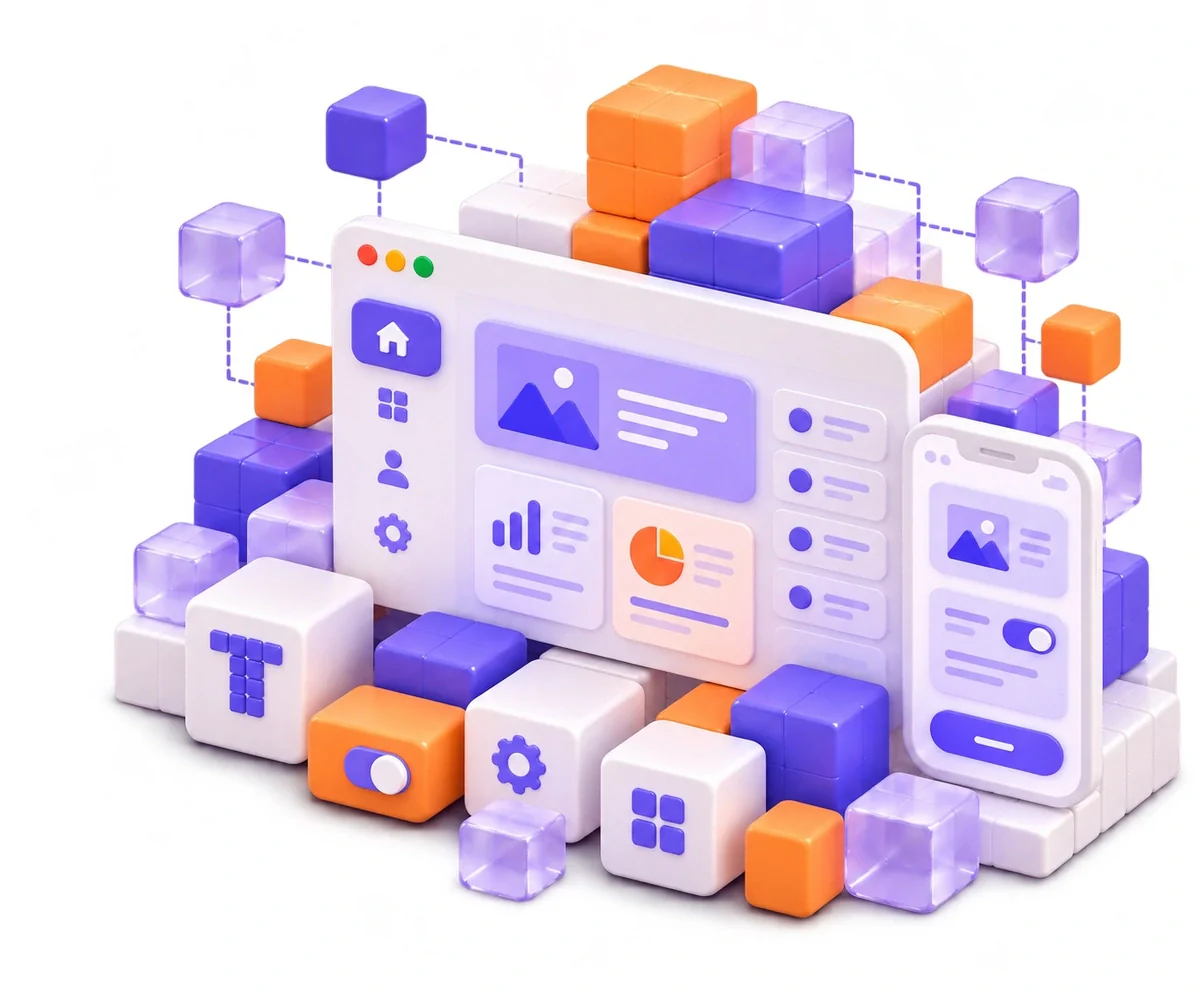
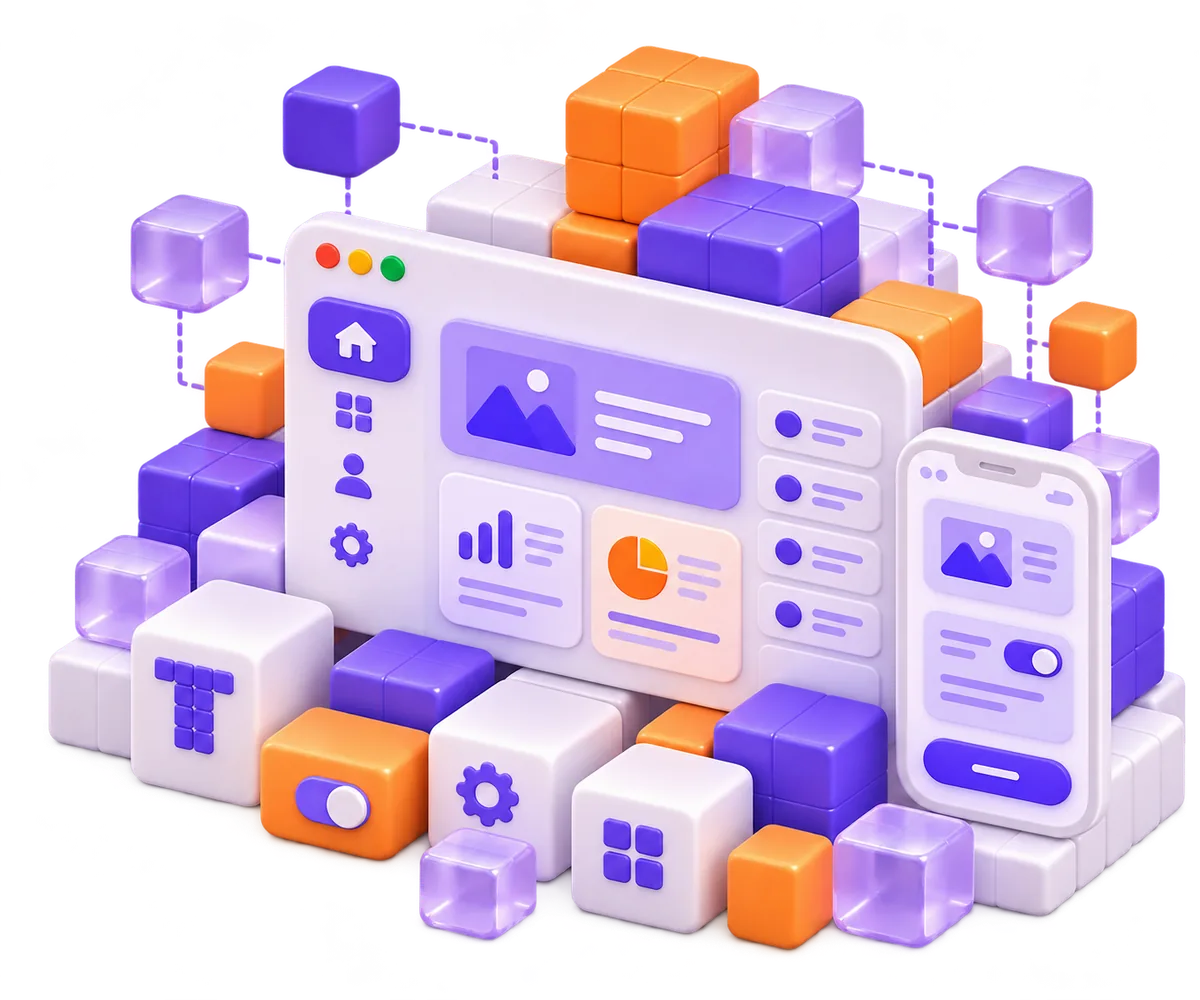
feat(website): transparent landing hero and frameless illustrations
Replace home-hero.webp with the transparent-background render (1200x1000,
WebP q82, lossless alpha) and drop the border, ground and dark-theme glow
from every illustration: the art sits bare on the page in both themes.
Only the texel fallback keeps its frame.

The hero's alpha channel raises the landing's measured page weight from
435.5 to 491.4 KB gzip; the / budget moves from 453 to 512 (+4%).

diff --git a/apps/website/src/components/perf/budgets.ts b/apps/website/src/components/perf/budgets.ts
@@ -60,8 +60,8 @@ export const ROUTE_BUDGET_OVERRIDES: readonly RouteBudgetOverride[] = Object.fre
   {
     route: '/',
     reason:
-      'The unified landing (PLAN_006 T-44) ships zero islands; its module scripts wire the install copy command and the ready signal. The generous page and JS limits below are the old hero-widget floors, kept until T-93 right-sizes them. PLAN_012 illustrations (2026-11-01): the page now shows its generated WebP plates (the eager hero and the lazy plates within the browser’s load-ahead distance load on open, each at the srcset width it renders), 362.9 KB of WebP on open; measured 435.5 KB page, limit 453 (+4% headroom).',
-    budget: { pageGzipKb: 453, jsGzipKb: 116, lcpMs: 3000 },
+      'The unified landing (PLAN_006 T-44) ships zero islands; its module scripts wire the install copy command and the ready signal. The generous page and JS limits below are the old hero-widget floors, kept until T-93 right-sizes them. PLAN_012 illustrations (2026-11-01): the page now shows its generated WebP plates (the eager hero and the lazy plates within the browser’s load-ahead distance load on open, each at the srcset width it renders), 362.9 KB of WebP on open; measured 435.5 KB page, limit 453 (+4% headroom). The transparent hero (2026-11-01) carries an alpha channel and weighs more: measured 491.4 KB page, limit 512 (+4% headroom).',
+    budget: { pageGzipKb: 512, jsGzipKb: 116, lcpMs: 3000 },
   },
   {
     route: '/component-pages/button/',

diff --git a/apps/website/tests/illustrations.test.ts b/apps/website/tests/illustrations.test.ts
@@ -106,12 +106,18 @@ describe('SiteIllustration', () => {
     expect(source).toContain("fetchpriority={eager ? 'high' : undefined}");
   });
 
-  it('swaps to the dark file only under the dark theme, and frames plates otherwise', () => {
+  it('swaps to the dark file only under the dark theme, and frames only the fallback', () => {
     expect(source).toContain(
       ":global(:root[data-tx-mode='dark']) .site-illustration--has-dark .site-illustration__dark"
     );
     expect(source).toMatch(/\.site-illustration__dark \{\s+display: none !important;/);
-    expect(source).toContain(":global(:root[data-tx-mode='dark']) .site-illustration--plate");
+    // Transparent art sits bare on the page: no border, ground or shadow.
+    expect(source).toMatch(/\.site-illustration \{(?:(?!\})[\s\S])*\}/);
+    expect(source.match(/\.site-illustration \{(?:(?!\})[\s\S])*\}/)?.[0]).not.toMatch(
+      /border|background|box-shadow/
+    );
+    expect(source).toMatch(/\.site-illustration--fallback \{[^}]*border: 1px solid/);
+    expect(source).not.toContain('box-shadow');
   });
 
   it('offers smaller build-time widths with a sizes hint, ending at the full file', () => {

diff --git a/apps/website/docs/ILLUSTRATIONS.md b/apps/website/docs/ILLUSTRATIONS.md
@@ -31,16 +31,14 @@ This guide fixes that style, the slot sizes and how a finished file reaches the 
 1. **No text.** No letters, words, numbers, logos or watermarks anywhere in an image. The page's HTML carries every word, so statements stay readable, translatable and indexable. The one exception is the Texuli "T" isotype (a T built from square cells), allowed only as an embossed glyph on a single cube where the prompt says so.
 2. **One idea per image.** Each image shows texel cubes plus one or two interface objects that tell the slot's single idea.
 3. **No people, no robots, no photographs.** No dark or busy backgrounds, and no extra brand colours.
-4. **Safe area.** Keep important content inside the central 84% of the frame. Leave 8% margins on every side, because crops and rounded frames clip the edges.
+4. **Safe area.** Keep important content inside the central 84% of the frame. Leave 8% margins on every side, because crops clip the edges.
 5. **Same light, same camera, same palette** in every image, so the set reads as one family.
 
 ## Light and dark
 
-Each image is rendered on the light lavender-to-peach ground. On the light theme it sits flush, with no frame on `plate` variants. On the dark theme the same file sits in a rounded frame with a soft violet glow, so it reads as a lit product shot rather than a light patch on a dark page.
+Every file has a transparent background, so it sits bare on the page ground in both themes: no border, no ground and no shadow. A file must therefore read on both a light and a dark ground. Only the texel fallback, shown when a file is missing, keeps a rounded frame. A replacement keeps the slot's file name and size, and the build derives its smaller widths, so it needs no code change.
 
-The files in the site today (added 2026-11-01) were generated with a transparent background instead of the gradient, so they sit on the page ground in both themes; the dark frame then only outlines them. `home-hero.webp` is the exception: it arrived without transparency, on a white ground, so it still shows as a white plate. Regenerating it with a transparent background replaces it with no code change.
-
-A slot may also name an optional `fileDark` (the same scene on a deep violet-ink ground, about `#17142A` to `#221B3D`). When that file exists, the dark theme uses it instead of the frame. Dark variants are optional: the frame keeps every page correct without them.
+A slot may also name an optional `fileDark` (the same scene on a deep violet-ink ground, about `#17142A` to `#221B3D`). When that file exists, the dark theme uses it instead of the light file. Dark variants are optional.
 
 ## Slots and sizes
 
@@ -74,7 +72,7 @@ Export WebP at quality 82 or better, at the exact pixel size above, below 250 KB
 1. Generate the image from its prompt in [illustration-prompts.md](illustration-prompts.md).
 2. Save it as the slot's `file` (WebP, the exact size) in `apps/website/src/assets/illustrations/`. Save the optional dark variant as `fileDark`.
 3. Optionally record `model` and `created` in the manifest entry.
-4. Run `pnpm build`. The slot switches from its texel fallback to the file with no code change, and no layout shift, because the frame always reserves the same aspect ratio. The build also derives smaller WebP widths (quality 82, through Astro's image pipeline) and serves them with `srcset` and a per-variant `sizes`, so a page downloads about the width it shows; `illustrationWidths` and `ILLUSTRATION_SIZES` in `src/components/landing/illustrations.ts` set the steps.
+4. Run `pnpm build`. The slot switches from its texel fallback to the file with no code change, and no layout shift, because the slot always reserves the same aspect ratio. The build also derives smaller WebP widths (quality 82, through Astro's image pipeline) and serves them with `srcset` and a per-variant `sizes`, so a page downloads about the width it shows; `illustrationWidths` and `ILLUSTRATION_SIZES` in `src/components/landing/illustrations.ts` set the steps.
 
 Until a file exists, `SiteIllustration.astro` paints a seeded texel mosaic in the same palette roles, so a page is always complete.
 
